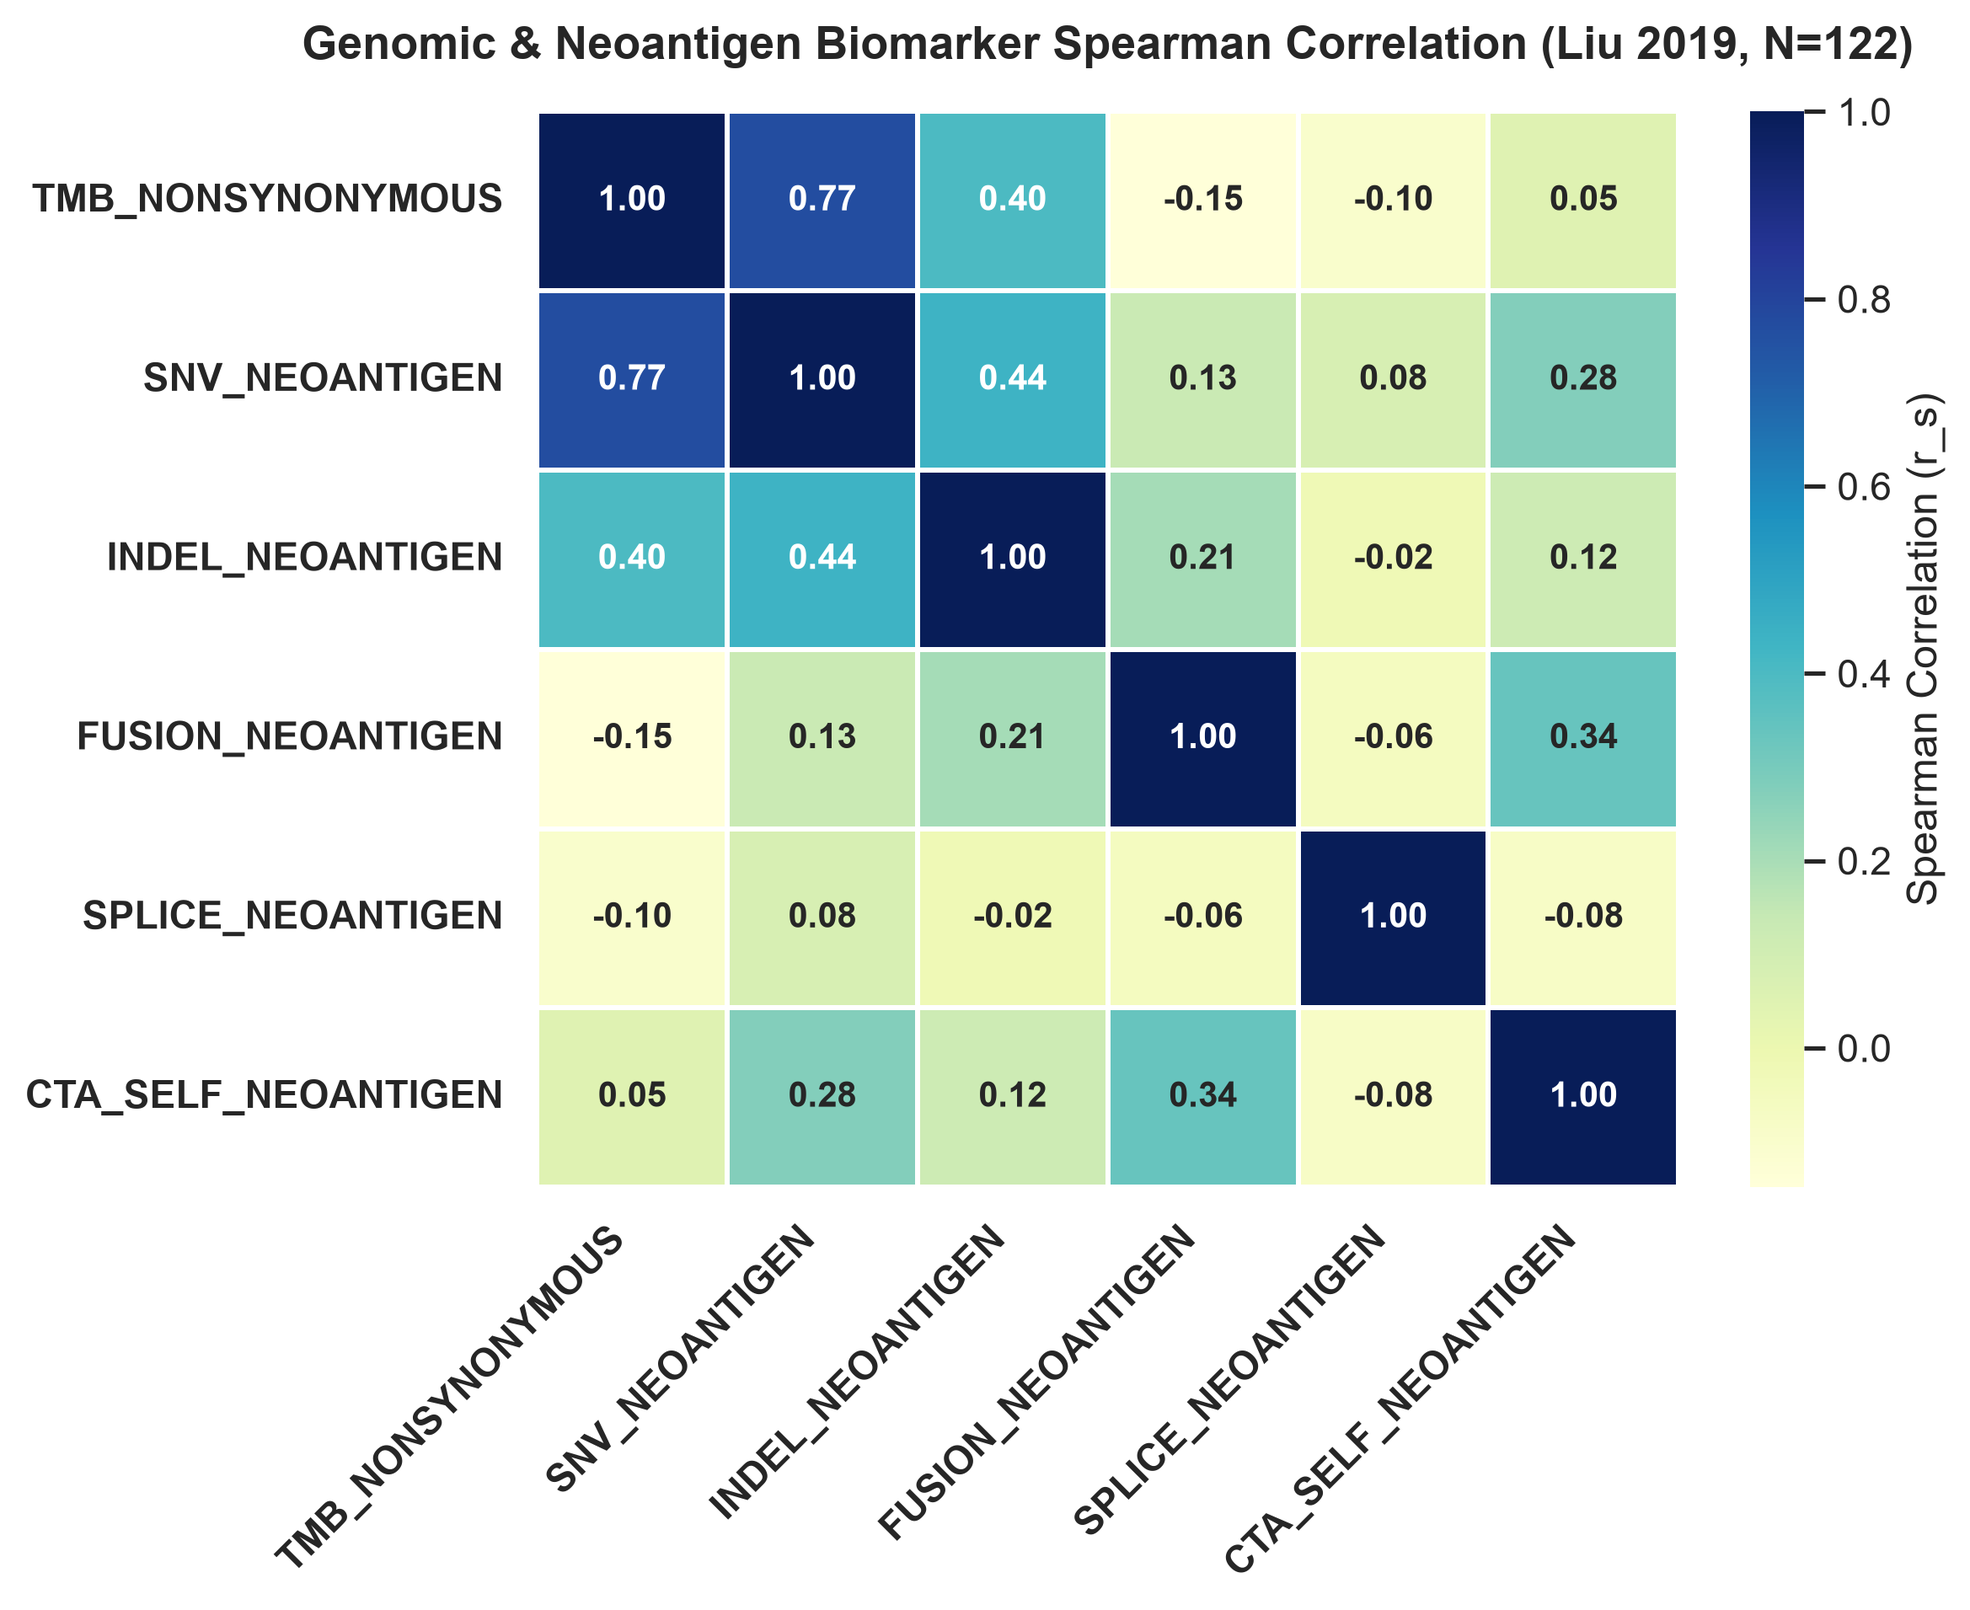
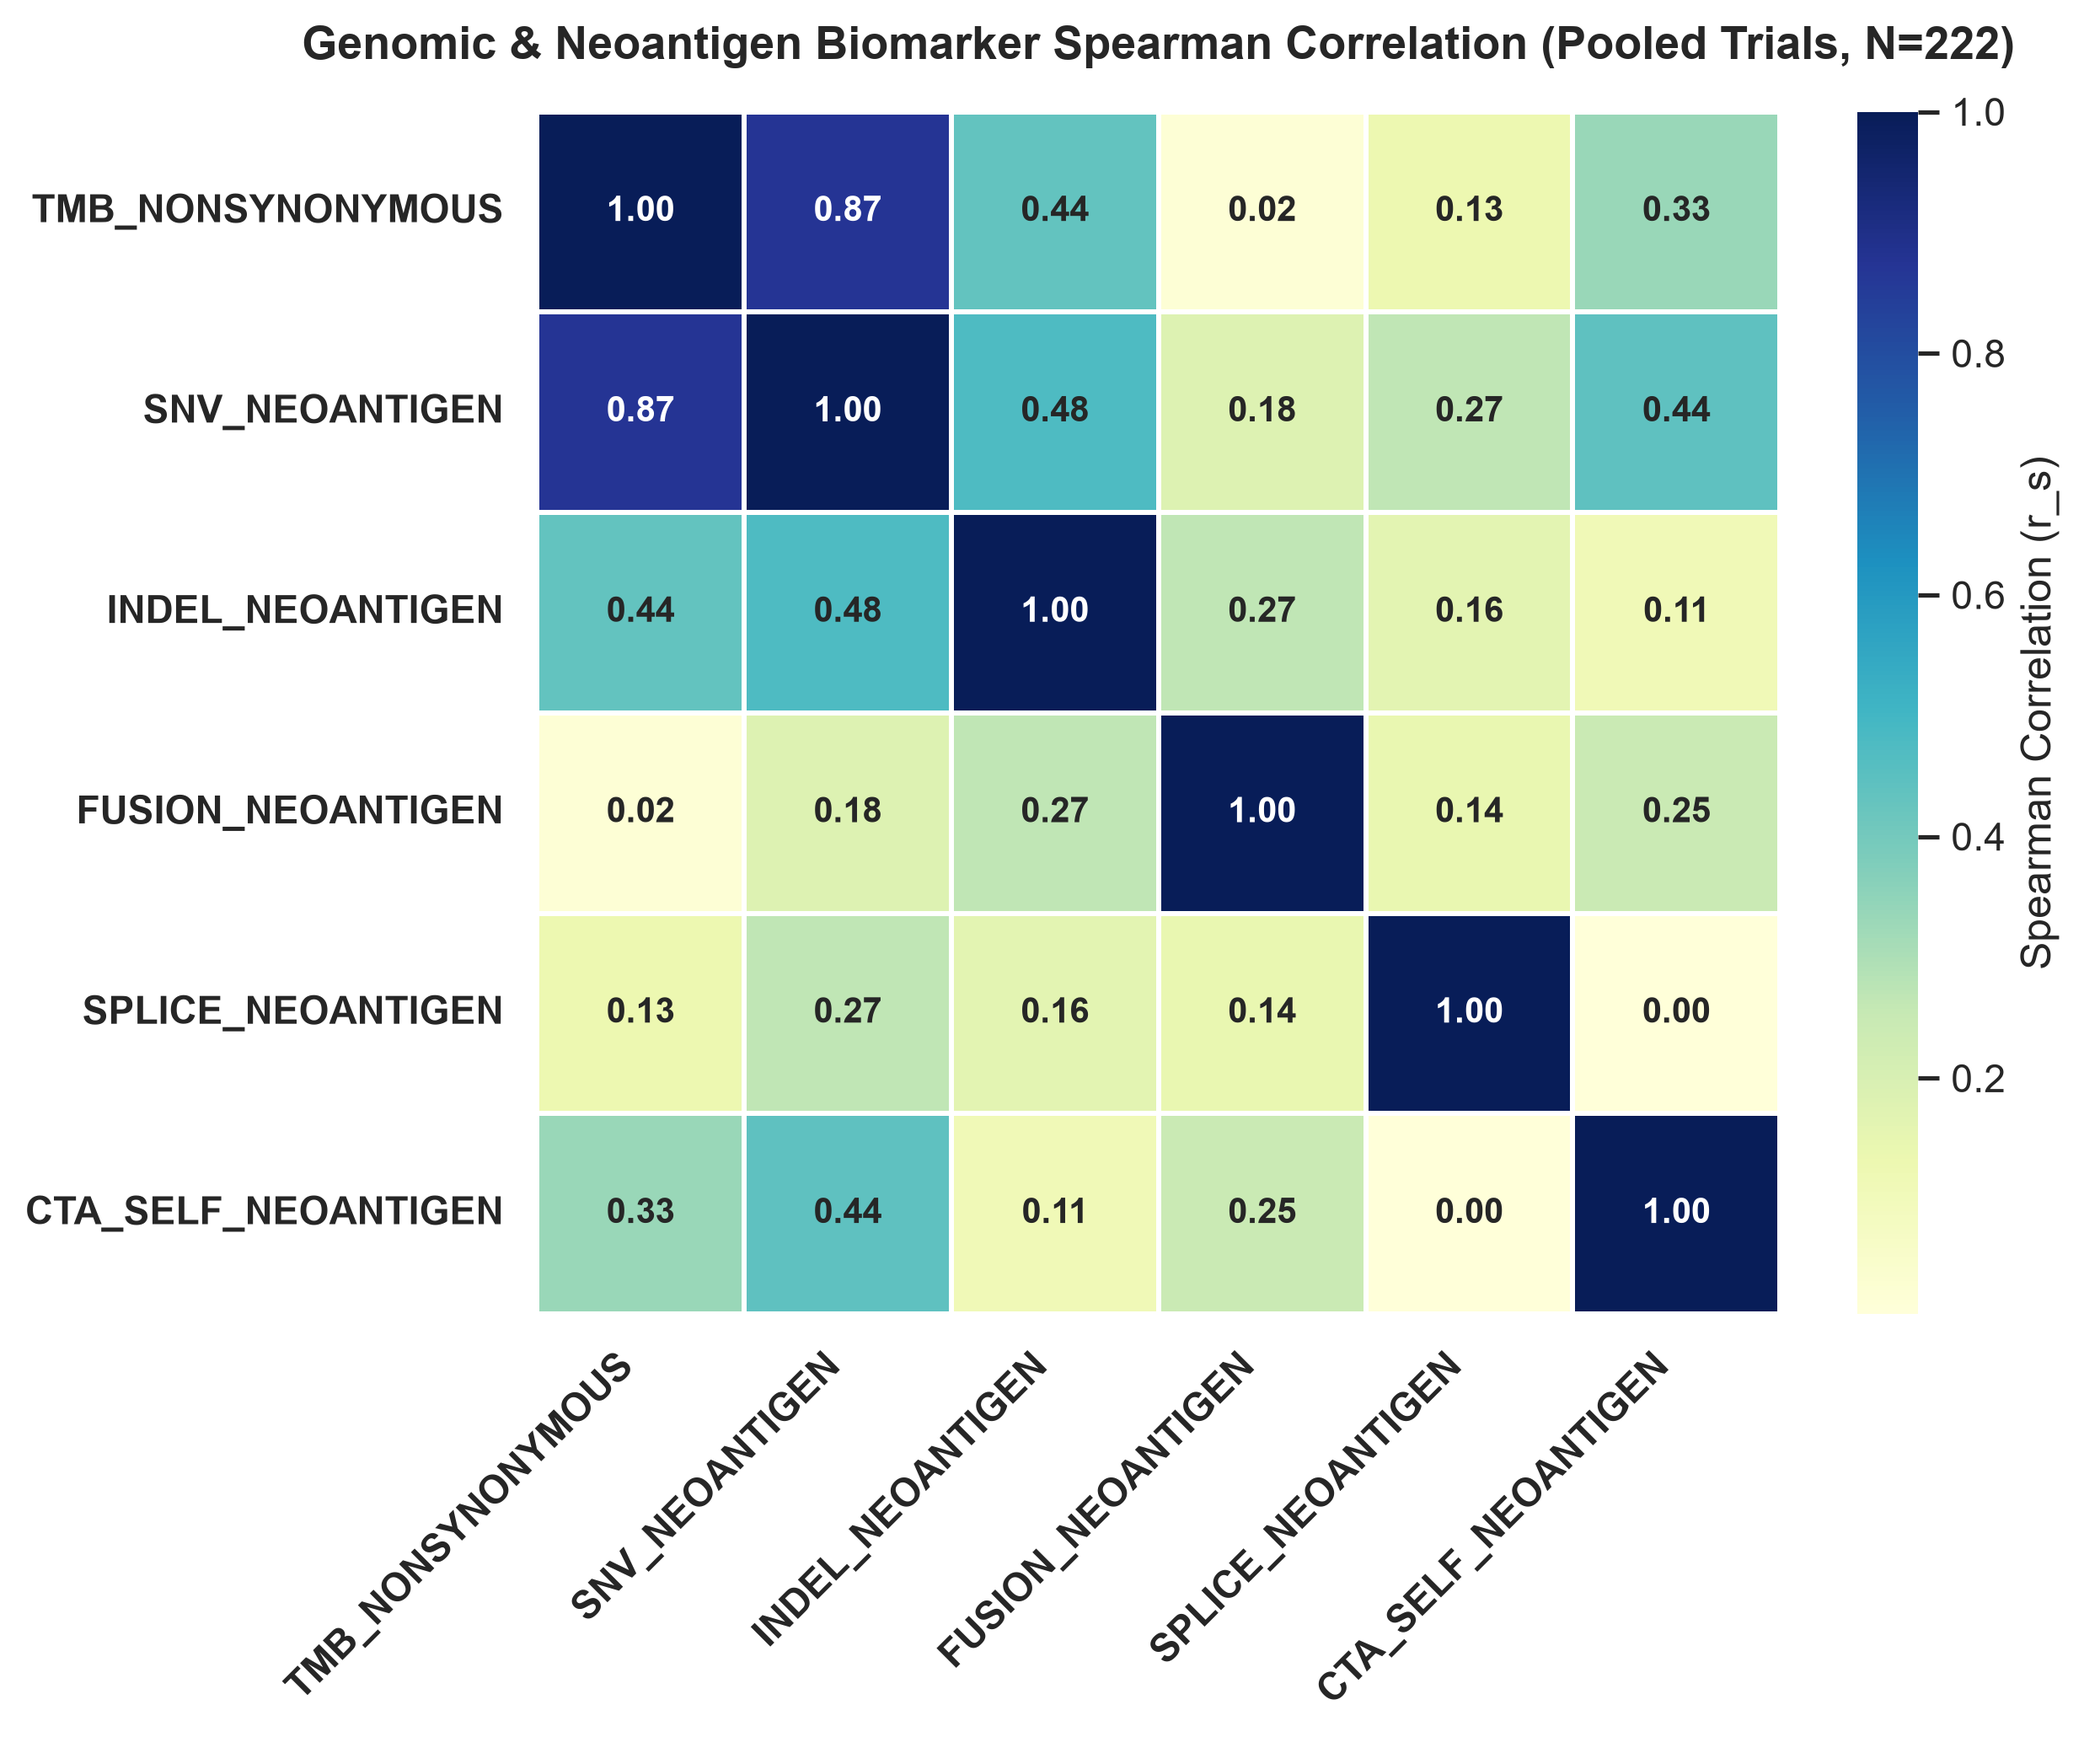
feat(genomic-analysis): update Spearman correlation matrix to evaluate pooled trial cohorts
- Updated _plot_biomarker_correlations in run_genomic_characterisation.py to concatenate continuous features across all trial cohorts (N=256) into a Pooled Trials correlation matrix.
- Updated Section 3.1 in cohort_characteristics_genomic.md report.

diff --git a/q1-response-predictor/scripts/biomarkers/run_genomic_characterisation.py b/q1-response-predictor/scripts/biomarkers/run_genomic_characterisation.py
@@ -305,20 +305,30 @@ def _plot_tmb_distributions(cohorts: Dict[str, pd.DataFrame], plot_dir: Path) ->
     save_fig(fig, out_tmb_legacy)
 
 
-def _plot_biomarker_correlations(clin_liu: pd.DataFrame, plot_dir: Path) -> None:
-    """Generates Spearman correlation heatmap for neoantigen metrics in Liu 2019.
+def _plot_biomarker_correlations(cohorts: Dict[str, pd.DataFrame], plot_dir: Path) -> None:
+    """Generates Spearman correlation heatmap for continuous genomic & neoantigen features across pooled trials.
 
     Args:
-        clin_liu: Clinical DataFrame for Liu 2019 cohort.
+        cohorts: Dictionary of cohort DataFrames.
         plot_dir: Path to directory for saving plot artifacts.
     """
-    print("\n3. Generating biomarker correlation matrix...")
-    available_cols = [c for c in NEOANTIGEN_FEATURES if c in clin_liu.columns]
-    corr_df = clin_liu[available_cols].dropna()
+    print("\n3. Generating biomarker correlation matrix for pooled trials...")
+    neo_cols = ["TMB_NONSYNONYMOUS"] + [c for c in NEOANTIGEN_FEATURES if c != "TMB_NONSYNONYMOUS"]
 
-    if len(corr_df) > 0:
+    pooled_sub_dfs = []
+    for name in ["Liu 2019", "Hugo 2016", "Riaz 2017"]:
+        if name in cohorts:
+            df = cohorts[name]
+            avail = [c for c in neo_cols if c in df.columns]
+            if len(avail) > 1:
+                sub = df[avail].dropna()
+                if len(sub) > 0:
+                    pooled_sub_dfs.append(sub)
+
+    if pooled_sub_dfs:
+        corr_df = pd.concat(pooled_sub_dfs, ignore_index=True)
         corr_matrix = corr_df.corr(method="spearman")
-        fig, ax = plt.subplots(figsize=(8, 6.5))
+        fig, ax = plt.subplots(figsize=(8.5, 7.0))
         sns.heatmap(
             corr_matrix,
             annot=True,
@@ -330,7 +340,7 @@ def _plot_biomarker_correlations(clin_liu: pd.DataFrame, plot_dir: Path) -> None
             ax=ax,
             annot_kws={"size": 10, "weight": "bold"},
         )
-        ax.set_title(f"Genomic & Neoantigen Biomarker Spearman Correlation (Liu 2019, N={len(corr_df)})", fontsize=13, fontweight="bold", pad=15)
+        ax.set_title(f"Genomic & Neoantigen Biomarker Spearman Correlation (Pooled Trials, N={len(corr_df)})", fontsize=13, fontweight="bold", pad=15)
         plt.xticks(rotation=45, ha="right", fontweight="bold")
         plt.yticks(fontweight="bold")
 
@@ -870,7 +880,7 @@ def main() -> None:
     cohorts = _prepare_cohort_data(DATA_DIR)
     _plot_mutation_frequencies(cohorts, PLOT_DIR)
     _plot_tmb_distributions(cohorts, PLOT_DIR)
-    _plot_biomarker_correlations(cohorts["Liu 2019"], PLOT_DIR)
+    _plot_biomarker_correlations(cohorts, PLOT_DIR)
     _plot_tcga_survival_stratification(cohorts["TCGA-SKCM"], PLOT_DIR)
 
     print("\n5. Generating extended pathway mutation frequency visualisations...")

diff --git a/q1-response-predictor/reports/pillar-1-cohorts-and-preprocessing/cohort_characteristics_genomic.md b/q1-response-predictor/reports/pillar-1-cohorts-and-preprocessing/cohort_characteristics_genomic.md
@@ -7,12 +7,12 @@ tags:
   - tmb
   - neoantigens
   - comut
-created: 2026-07-23 23:12
+created: 2026-07-23 23:14
 cssclasses:
   - table-small
 obsidianEditingMode: preview
 obsidianUIMode: source
-updated: 2026-07-23 23:12
+updated: 2026-07-23 23:14
 ---
 
 # Genomic Characteristics of Data Cohorts
